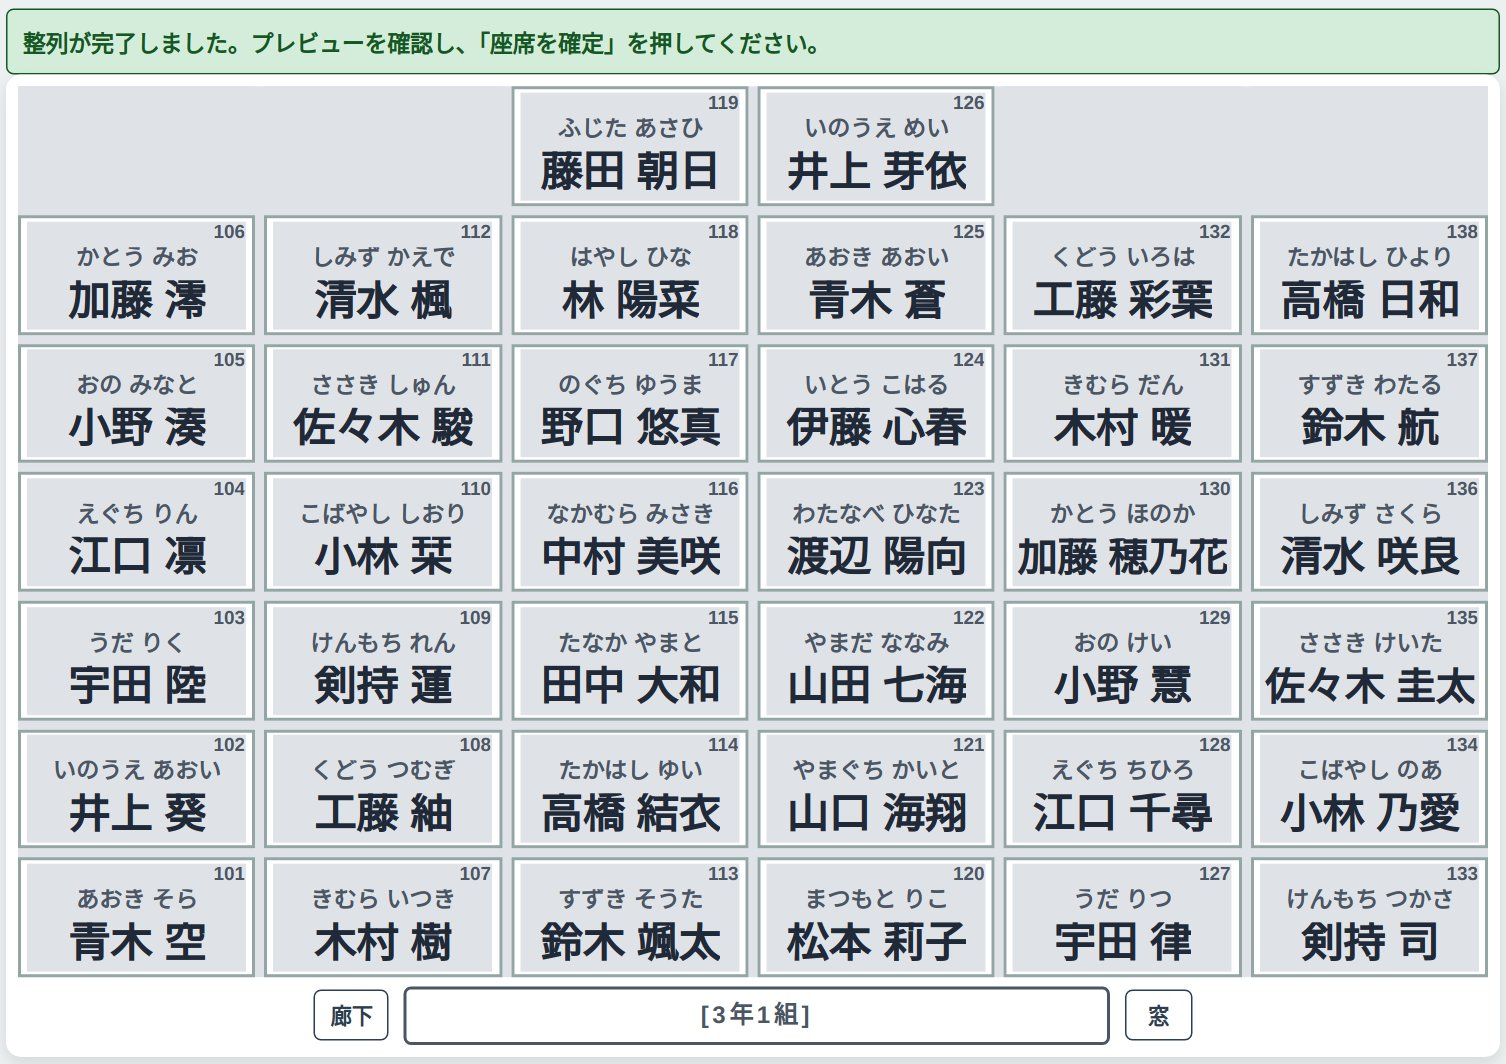
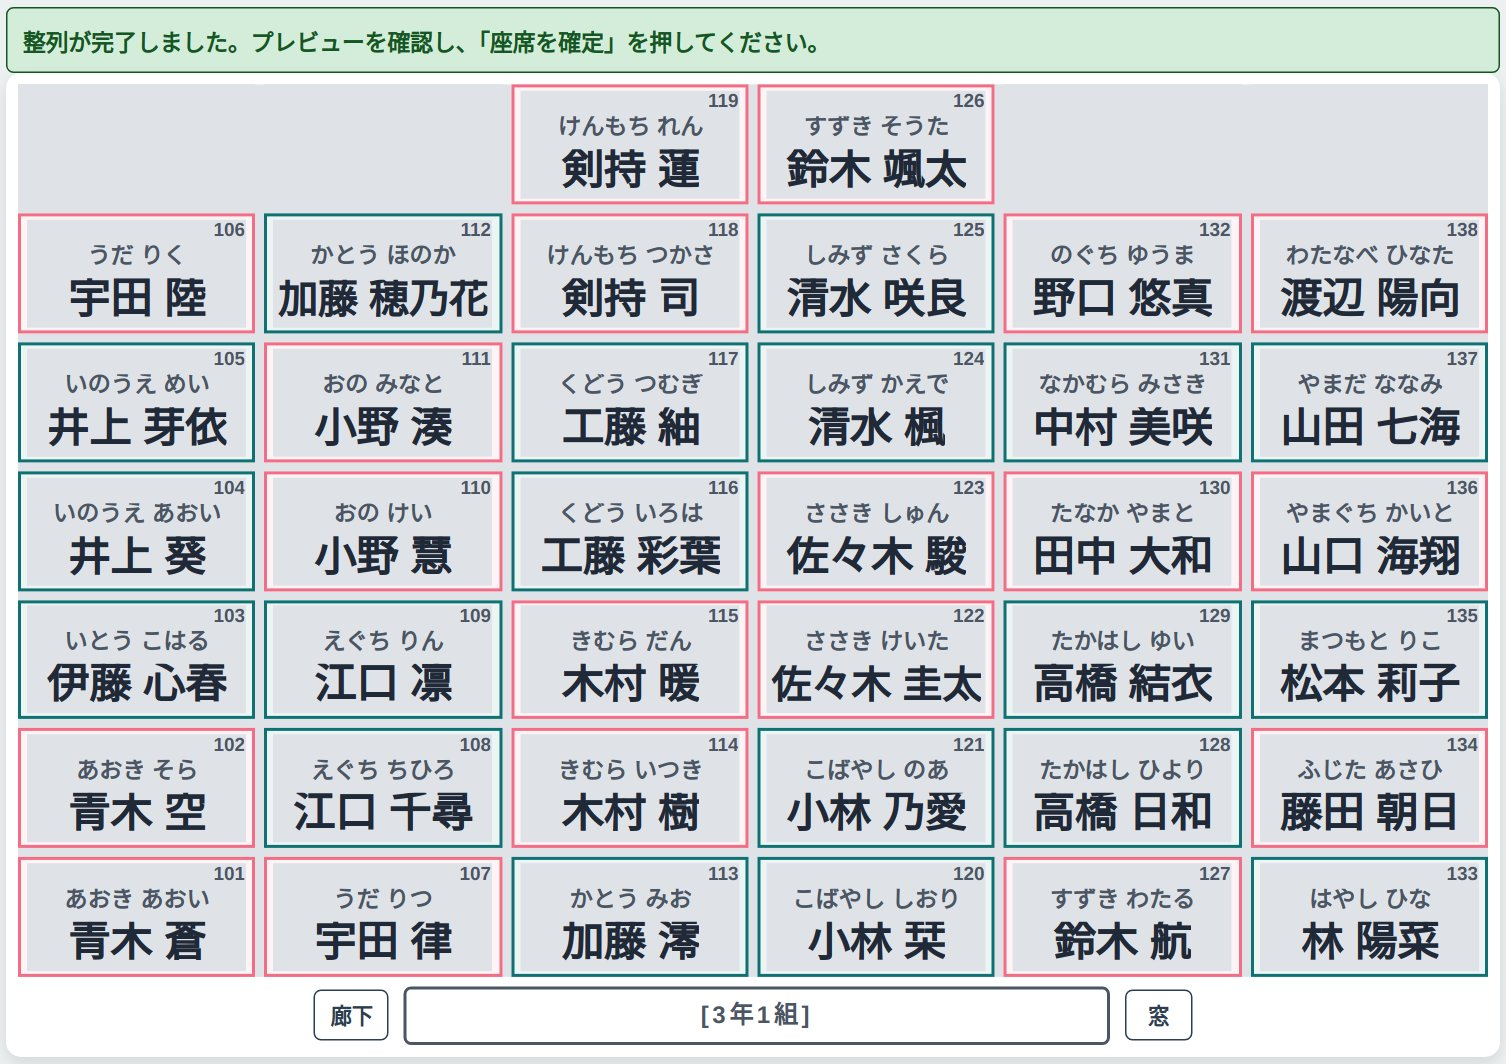
ガイド画像を差し替え: 番号をふりがな順に振り直し、整列・市松・シャッフルの結果は色分け+塗りONで撮影

Changed region(s): [[0.0, 0.031, 0.9987, 0.9305]]

diff --git a/guide.html b/guide.html
@@ -110,9 +110,9 @@
       <div class="tbl-scroll">
         <table class="sample">
           <tr><th>番号</th><th>氏名</th><th>かな</th><th>性別</th><th>属性1</th><th>属性2</th><th>備考</th></tr>
-          <tr><td>101</td><td>青木 空</td><td>あおき そら</td><td>男</td><td></td><td></td><td></td></tr>
-          <tr><td>102</td><td>井上 葵</td><td>いのうえ あおい</td><td>女</td><td></td><td></td><td></td></tr>
-          <tr><td>103</td><td>宇田 陸</td><td>うだ りく</td><td>男</td><td></td><td></td><td></td></tr>
+          <tr><td>101</td><td>青木 蒼</td><td>あおき あおい</td><td>男</td><td></td><td></td><td></td></tr>
+          <tr><td>102</td><td>青木 空</td><td>あおき そら</td><td>男</td><td></td><td></td><td></td></tr>
+          <tr><td>103</td><td>伊藤 心春</td><td>いとう こはる</td><td>女</td><td></td><td></td><td></td></tr>
         </table>
       </div>
       <p>反映されると、下の表に名簿が入ります。この表はそのまま直接編集でき、<span class="ui">行を追加</span> や行の削除もここでできます。</p>
@@ -158,7 +158,7 @@
       </figure>
       <figure>
         <img src="guide-img/seiretsu-result.jpg" alt="整列で番号順に配置された座席表" loading="lazy">
-        <figcaption>整列の結果（38名）。教卓側の左端（左下）から番号順に埋まり、空席にした最後列の4席はスキップされている</figcaption>
+        <figcaption>整列の結果（38名、番号はふりがな順）。教卓側の左端（左下）から番号順に埋まり、空席にした最後列の4席はスキップされている。色はステップ4の色分け（「塗り」ON）を設定した状態</figcaption>
       </figure>
 
       <h3>市松 ― 男女が市松模様になるように並べる</h3>
@@ -169,14 +169,14 @@
       </figure>
       <figure>
         <img src="guide-img/ichimatsu-result.jpg" alt="市松で配置された座席表" loading="lazy">
-        <figcaption>市松の結果（38名）。男女が交互のマス目に入り、有効な38席すべてが埋まっている</figcaption>
+        <figcaption>市松の結果（38名）。男女が交互のマス目に入り、有効な38席すべてが埋まっている。色はステップ4の色分けを設定した状態</figcaption>
       </figure>
 
       <h3>シャッフル ― ランダムに並べる</h3>
       <p><span class="ui">シャッフル</span> を押すだけで、ランダムな配置が作られます。押すたびに新しい候補が追加され、<span class="ui">前の候補</span> / <span class="ui">次の候補</span> で行き来して見比べられます（候補の数は <span class="ui">最新 / ○件</span> のように表示されます）。</p>
       <figure>
         <img src="guide-img/shuffle-result.jpg" alt="シャッフルで配置された座席表" loading="lazy">
-        <figcaption>シャッフルの結果（38名）。押すたびに別の並びになる</figcaption>
+        <figcaption>シャッフルの結果（38名）。押すたびに別の並びになる。色はステップ4の色分けを設定した状態</figcaption>
       </figure>
 
       <h3>決まったら確定する</h3>
@@ -203,8 +203,8 @@
         <li>色そのものを変えたいときは、<span class="ui">色設定</span> の番号ボタンを押すとパレットが開き、色を選べます。</li>
       </ul>
       <figure>
-        <img src="guide-img/colored-result.jpg" alt="色分けと「塗り」をONにした座席表" loading="lazy">
-        <figcaption>色分けと「塗り」をONにした座席表（シャッフルの配置例）。この例では男＝6番（ピンク）、女＝5番（ティール）</figcaption>
+        <img src="guide-img/colored-result.jpg" alt="色分けと「塗り」をONにした座席表の拡大" loading="lazy">
+        <figcaption>色分けと「塗り」をONにした座席表の拡大（市松の配置例）。男＝6番（ピンク）、女＝5番（ティール）で、枠線と座席全体の淡い色が付く</figcaption>
       </figure>
     </section>
 
